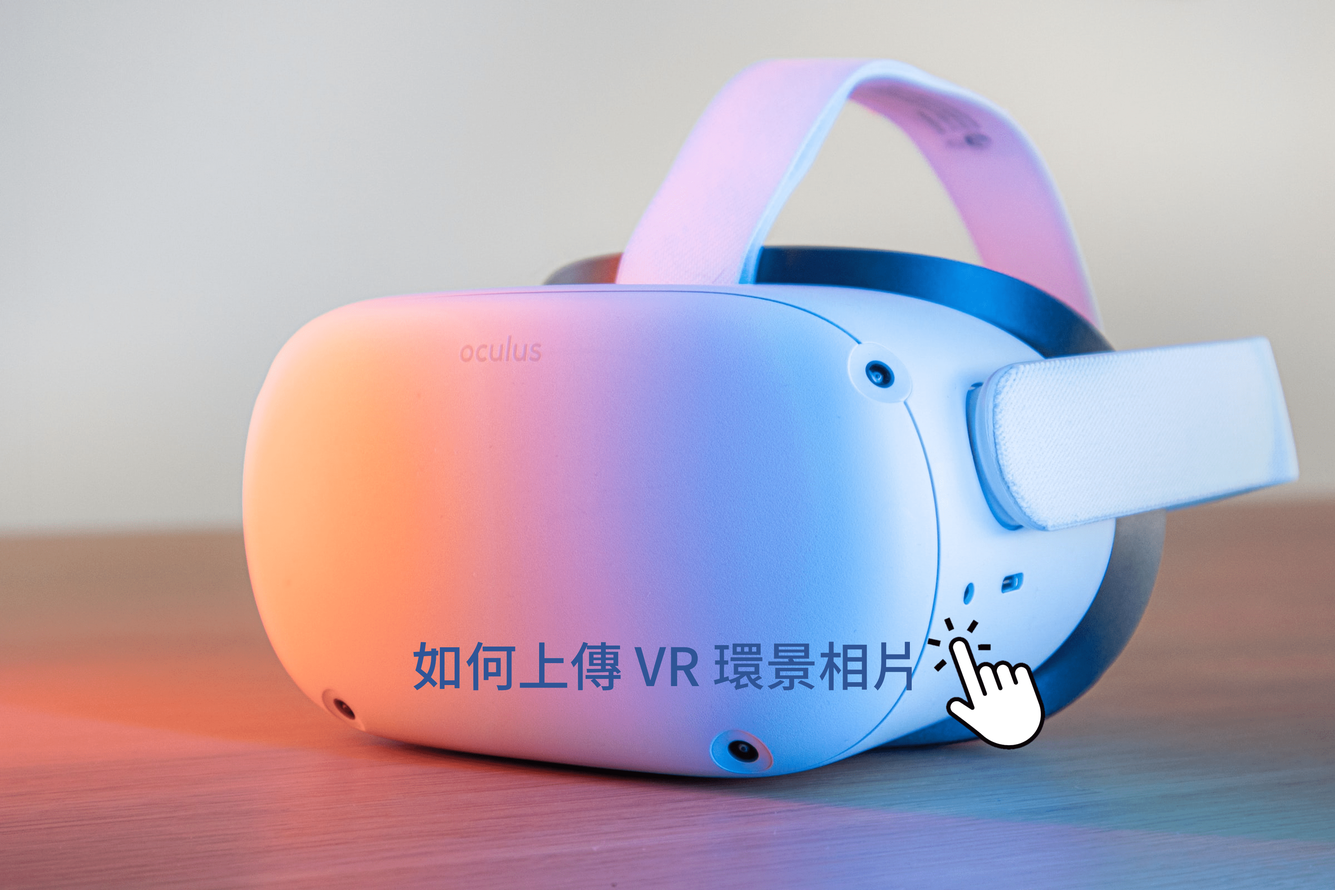
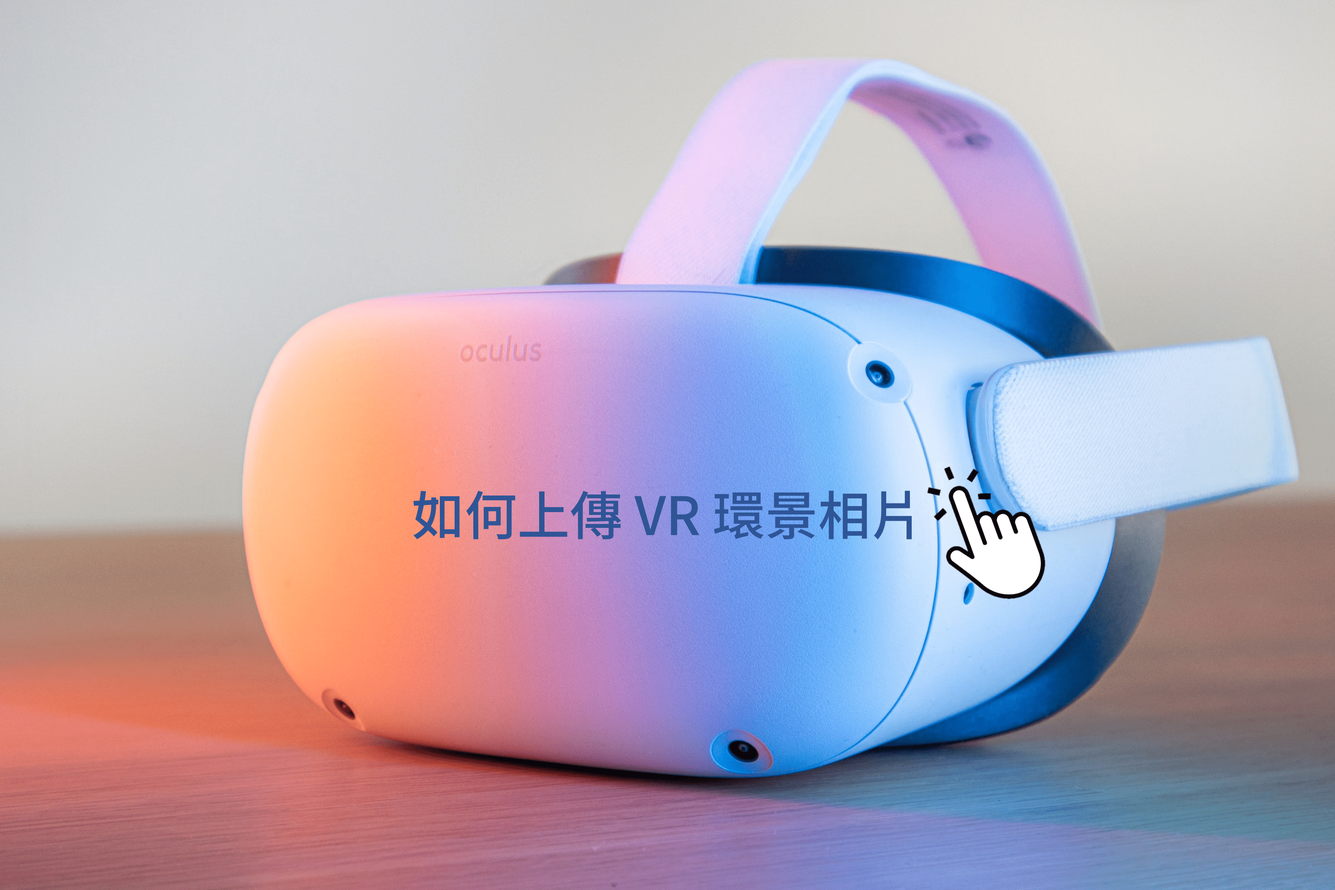
faq link

diff --git a/public/static/css/output.css b/public/static/css/output.css
@@ -707,6 +707,10 @@ video {
   margin-bottom: -0.75rem;
 }
 
+.mt-3 {
+  margin-top: 0.75rem;
+}
+
 .block {
   display: block;
 }
@@ -1220,6 +1224,11 @@ video {
   line-height: 1.5rem;
 }
 
+.text-sm {
+  font-size: 0.875rem;
+  line-height: 1.25rem;
+}
+
 .text-4xl {
   font-size: 2.25rem;
   line-height: 2.5rem;
@@ -1238,11 +1247,6 @@ video {
 .text-xl {
   font-size: 1.25rem;
   line-height: 1.75rem;
-}
-
-.text-sm {
-  font-size: 0.875rem;
-  line-height: 1.25rem;
 }
 
 .font-bold {

diff --git a/public/edit-house.php b/public/edit-house.php
@@ -56,7 +56,7 @@ if (isset($_POST['title'])) {
           <input class="w-full bg-gray-100 px-4 py-2 rounded-lg focus:outline-none" type="text" name="rent" id="rent" value="<?= isset($_POST['rent']) ? $_POST['rent'] : $house['rent'] ?>" required />
         </div>
         <div>
-          <label class="text-gray-800 font-semibold block my-3 text-md" for="vr_url">VR 看房網址</label>
+          <label class="text-gray-800 font-semibold block mt-3 text-md" for="vr_url">VR 看房網址</label><a class="text-sm text-blue-700" href="./faq.php">如何上傳 VR 環景相片？</a>
           <input class="w-full bg-gray-100 px-4 py-2 rounded-lg focus:outline-none" type="text" name="vr_url" id="vr_url" value="<?= isset($_POST['vr_url']) ? $_POST['vr_url'] : $house['vr_url'] ?>" required />
         </div>
         <div>

diff --git a/public/create-house.php b/public/create-house.php
@@ -54,7 +54,7 @@ if (isset($_POST['title'])) {
             id="rent" value="<?= isset($_POST['rent']) ? $_POST['rent'] : '' ?>" required />
         </div>
         <div>
-          <label class="text-gray-800 font-semibold block my-3 text-md" for="vr_url">VR 看房網址</label>
+        <label class="text-gray-800 font-semibold block mt-3 text-md" for="vr_url">VR 看房網址</label><a class="text-sm text-blue-700" href="./faq.php">如何上傳 VR 環景相片？</a>
           <input class="w-full bg-gray-100 px-4 py-2 rounded-lg focus:outline-none" type="text" name="vr_url"
           id="vr_url" value="<?= isset($_POST['vr_url']) ? $_POST['vr_url'] : '' ?>" required />
         </div>

diff --git a/partial/sidebar.php b/partial/sidebar.php
@@ -95,7 +95,7 @@
       </li> -->
       </ul>
     </div>
-    <div class="w-max -mb-3">
+    <!-- <div class="w-max -mb-3">
       <a href="#" class="group flex items-center space-x-4 rounded-md px-4 py-3 text-gray-600">
         <svg xmlns="http://www.w3.org/2000/svg" class="h-5 w-5 group-hover:fill-cyan-600" viewBox="0 0 20 20"
           fill="currentColor">
@@ -105,6 +105,6 @@
         </svg>
         <span class="group-hover:text-gray-700">Settings</span>
       </a>
-    </div>
+    </div> -->
   </div>
 </div>

diff --git a/public/index.php b/public/index.php
@@ -24,7 +24,7 @@ session_start();
     </div>
 
     <div class="mySlides fade">
-      <a href="./faq.php"><img src="./static/image/slide3.jpg" style="width:100%"></a>
+      <a href="./faq.php"><img src="./static/image/slide3.png" style="width:100%"></a>
     </div>
   </div>
 </div>
